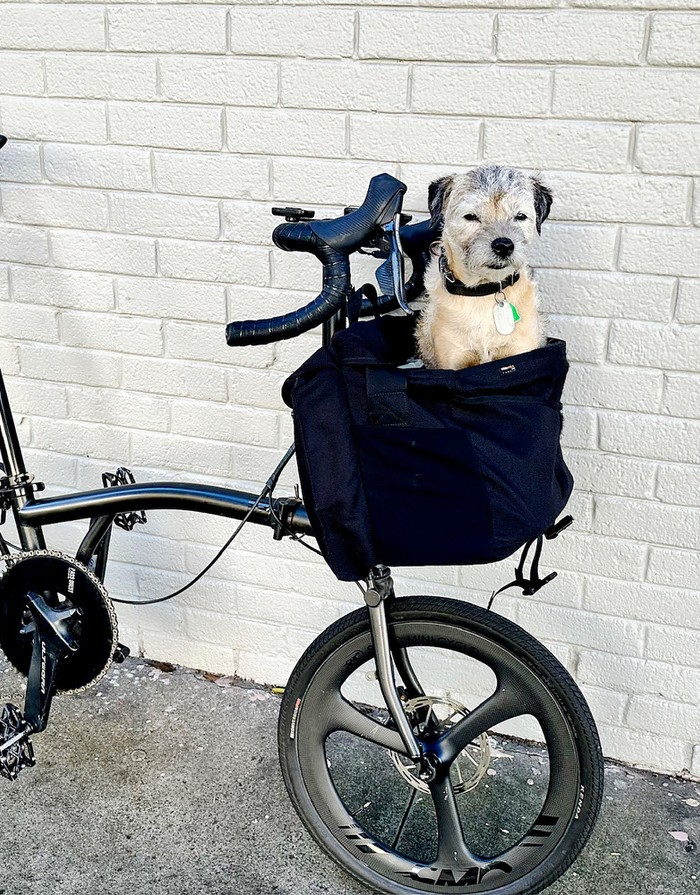
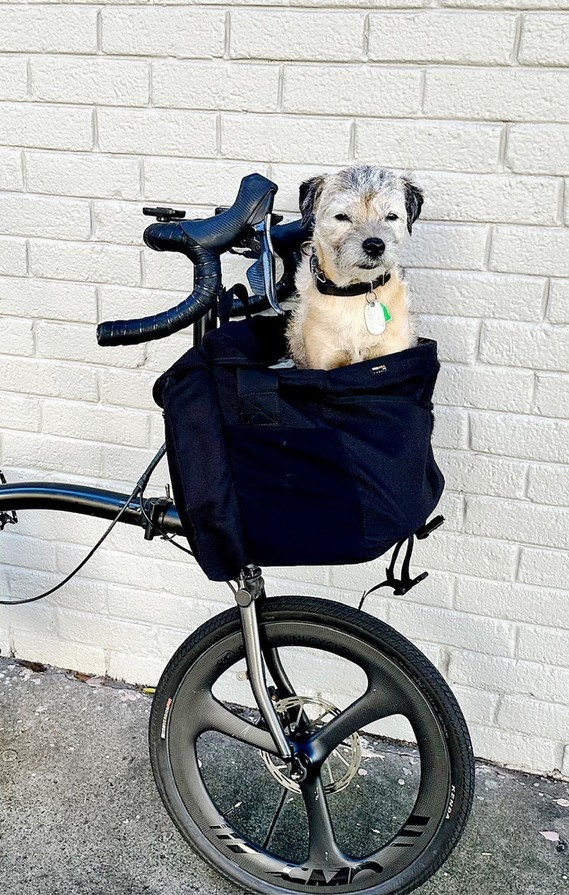
wip

diff --git a/app/personinformation.tsx b/app/personinformation.tsx
@@ -1,4 +1,4 @@
-import { Alert, Text, Button, StyleSheet, KeyboardAvoidingView, TextInput, View, ProgressBarAndroid } from "react-native";
+import { Alert, Text, Button, Keyboard, Platform, StyleSheet, KeyboardAvoidingView, TouchableWithoutFeedback, TextInput, View, ProgressBarAndroid } from "react-native";
 import React, { useState } from "react";
 import { useNavigation } from '@react-navigation/native';
 import { useContext } from 'react';
@@ -51,14 +51,13 @@ export default function PersonInformationScreen() {
     };
 
     return (
-        <KeyboardAvoidingView>
-              behavior={Platform.OS === 'ios' ? 'padding' : 'height'}
-              style={styles.container}>
-              <TouchableWithoutFeedback onPress={Keyboard.dismiss}>
-            {/* Top section: Question */}
-            <Text style={styles.questionText}>Wie heisst du?</Text>
-
+        <KeyboardAvoidingView
+             behavior={Platform.OS === 'ios' ? 'padding' : 'height'}
+             style={styles.container}>
+             <TouchableWithoutFeedback onPress={Keyboard.dismiss}>
             {/* Input field for Name */}
+            <View>
+            <Text style={styles.questionText}>Wie heisst du?</Text>
             <TextInput
                 style={styles.input}
                 placeholder="Namen"
@@ -88,6 +87,7 @@ export default function PersonInformationScreen() {
                 color="#de78b2"
                 disabled={isButtonDisabled}
             />
+            </View>
             </TouchableWithoutFeedback>
         </KeyboardAvoidingView>
     );

diff --git a/app/index.tsx b/app/index.tsx
@@ -17,11 +17,10 @@ export default function HomeScreen() {
     const navigation = useNavigation();
 
     return (
-        <SafeAreaView style={{ flex: 1 }}>
             <View style={styles.container}>
                 <Image
                     style={styles.homeImage}
-                    source={require("../assets/images/AngertyBike.jpg")}
+                    source={require("../assets/images/sascha.jpeg")}
                     contentFit='cover'
                 />
                 <View style={styles.overlayContainer}>
@@ -33,7 +32,6 @@ export default function HomeScreen() {
                     </Card>
                 </View>
             </View>
-        </SafeAreaView>
     );
 }
 

diff --git a/app/tutorial.tsx b/app/tutorial.tsx
@@ -40,13 +40,12 @@ const styles = StyleSheet.create({
   },
   image: {
     width: 100,
-    height: 100,
-    marginRight: 20,
+//     height: "100%",
+//     marginRight: 20,
     resizeMode: 'contain', // Ensures the image fits
 //     aspectRatio: 3 / 1, // Makes the video container responsive with a 16:9 ratio
   },
   text: {
-//     color: '#fff', // Set text color to white
     fontSize: 18,
   },
 });
